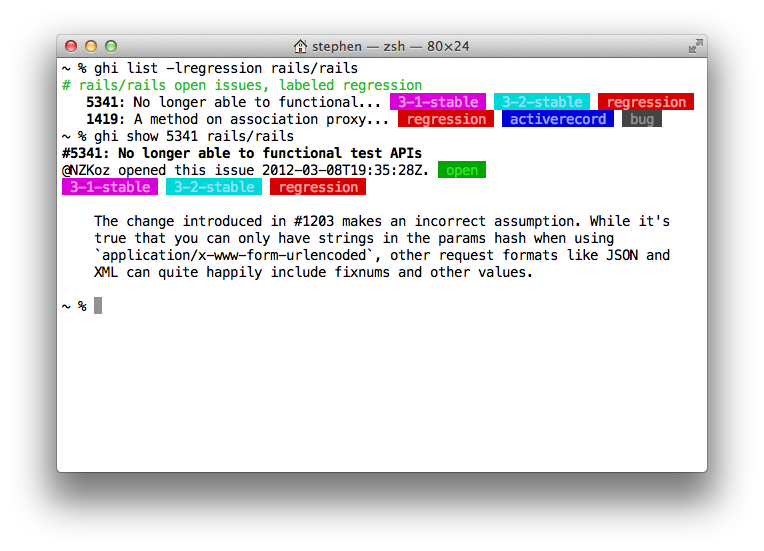
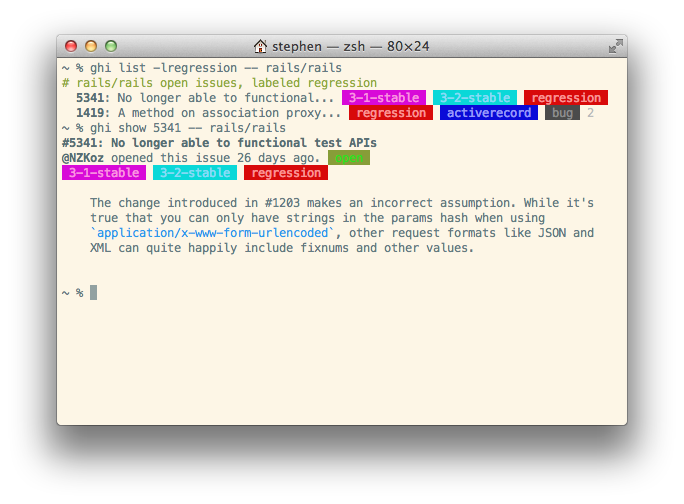
Don't always load comments. Update example.

diff --git a/lib/ghi/formatting.rb b/lib/ghi/formatting.rb
@@ -145,7 +145,7 @@ module GHI
     # TODO: Show milestone, number of comments, pull request attached.
     def format_issue i
       ERB.new(<<EOF).result binding
-<% p = i['pull_request'].key? 'html_url' %>\
+<% p = i['pull_request']['html_url'] %>\
 <%= bright { \
 indent '%s%s: %s' % [p ? '↑' : '#', *i.values_at('number', 'title')], 0 } %>
 @<%= i['user']['login'] %> opened this <%= p ? 'pull request' : 'issue' %> \

diff --git a/lib/ghi/commands/show.rb b/lib/ghi/commands/show.rb
@@ -13,8 +13,10 @@ module GHI
         require_repo
         i = throb { api.get "/repos/#{repo}/issues/#{issue}" }.body
         puts format_issue(i)
-        page? 'Load comments?'
-        Comment.execute %W(-l #{issue} -- #{repo})
+        if i['comments'] > 0
+          page? "Load #{i['comments']} comments?"
+          Comment.execute %W(-l #{issue} -- #{repo})
+        end
       end
     end
   end
